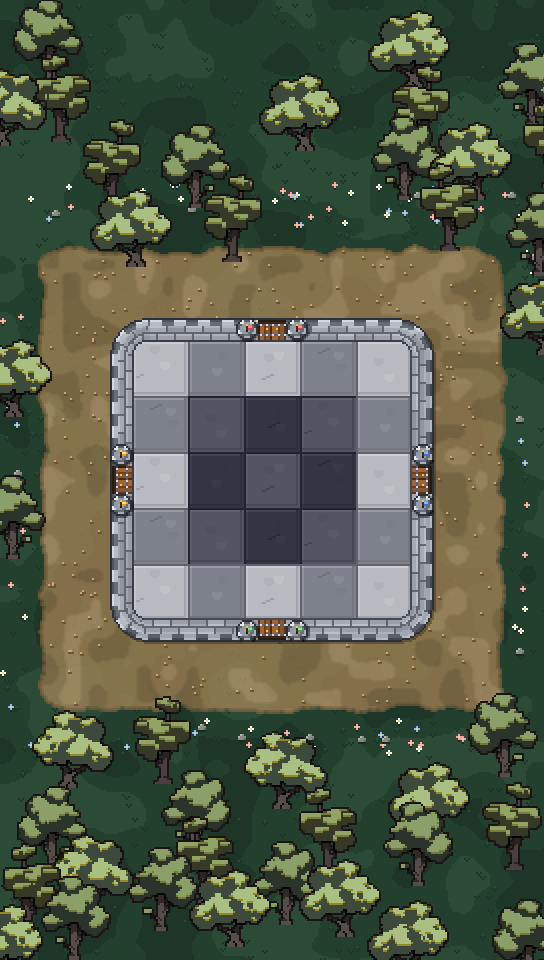
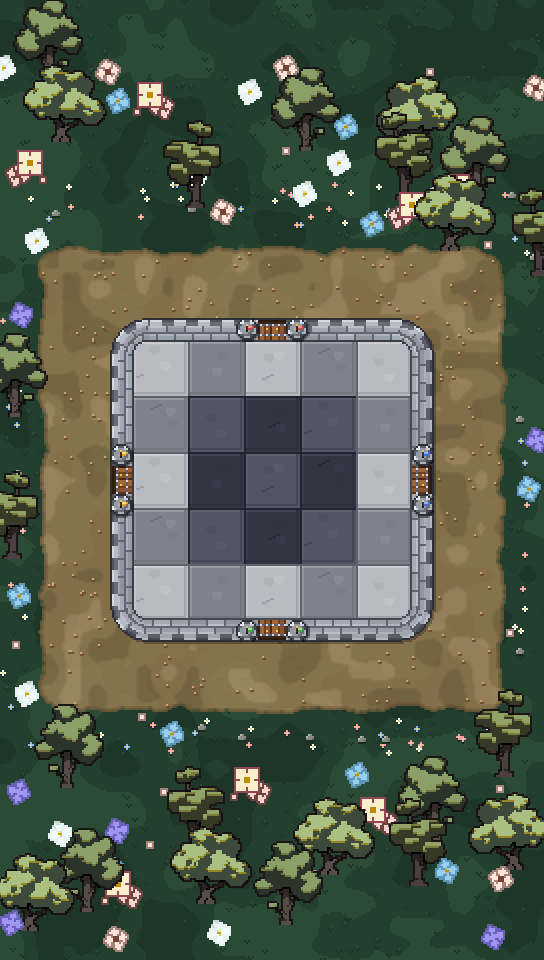
art: 초원 나무 22그루로 줄이고 사용자 그림 꽃 6종 50송이 추가
Claude-Session: https://claude.ai/code/session_01SZsqwRfS18NGHG22PfppyP

diff --git a/src/data/decor.js b/src/data/decor.js
@@ -3,46 +3,78 @@
 // 세로 화면만 (가로 배치는 꺼 둠). 필드·몬스터 길만 피해 화면 전체(UI 뒤 포함)에 흩뿌린다.
 export const DECOR = {
   grass: [
-    // 화면 전체(UI 뒤 땅 포함)에 흩뿌린 나무 — docs/drafts/tree-sway/scatter.py 가 쓴다 (손으로 고치면 다음 실행에 덮인다)
-    { key: 'deco_tree_1', x: 51, y: 81, phase: 0.5, flip: true },
-    { key: 'deco_tree_2', x: 416, y: 86, phase: 0.18, flip: true },
-    { key: 'deco_tree_1', x: 531, y: 125, phase: 0.11 },
-    { key: 'deco_tree_3', x: 59, y: 140, phase: 0.8 },
-    { key: 'deco_tree_2', x: -1, y: 144, phase: 0.59 },
-    { key: 'deco_tree_2', x: 307, y: 149, phase: 0.89, flip: true },
-    { key: 'deco_tree_3', x: 424, y: 151, phase: 0.3, flip: true },
-    { key: 'deco_tree_3', x: 549, y: 186, phase: 0.41 },
-    { key: 'deco_tree_1', x: 403, y: 198, phase: 0.21 },
-    { key: 'deco_tree_2', x: 478, y: 198, phase: 0.48, flip: true },
-    { key: 'deco_tree_3', x: 113, y: 205, phase: 0.06, flip: true },
-    { key: 'deco_tree_1', x: 197, y: 206, phase: 0.1, flip: true },
-    { key: 'deco_tree_3', x: 448, y: 249, phase: 0.95 },
-    { key: 'deco_tree_3', x: 234, y: 260, phase: 0.12, flip: true },
-    { key: 'deco_tree_2', x: 138, y: 265, phase: 0.49, flip: true },
-    { key: 'deco_tree_1', x: 538, y: 274, phase: 0.63 },
-    { key: 'deco_tree_2', x: 548, y: 353, phase: 0.39, flip: true },
-    { key: 'deco_tree_2', x: 16, y: 415, phase: 0.99, flip: true },
-    { key: 'deco_tree_1', x: 14, y: 557, phase: 0.61, flip: true },
-    { key: 'deco_tree_1', x: 506, y: 775, phase: 0.4, flip: true },
-    { key: 'deco_tree_3', x: 165, y: 782, phase: 0.42, flip: true },
-    { key: 'deco_tree_2', x: 66, y: 786, phase: 0.7 },
-    { key: 'deco_tree_2', x: 280, y: 807, phase: 0.1 },
-    { key: 'deco_tree_2', x: 436, y: 838, phase: 0.84, flip: true },
-    { key: 'deco_tree_1', x: 193, y: 852, phase: 0.59 },
-    { key: 'deco_tree_1', x: 53, y: 868, phase: 0.01, flip: true },
-    { key: 'deco_tree_3', x: 516, y: 868, phase: 0.52, flip: true },
-    { key: 'deco_tree_3', x: 327, y: 873, phase: 0.99 },
-    { key: 'deco_tree_1', x: 417, y: 884, phase: 0.06 },
-    { key: 'deco_tree_3', x: 204, y: 902, phase: 0.99 },
-    { key: 'deco_tree_2', x: 86, y: 910, phase: 0.86 },
-    { key: 'deco_tree_1', x: 285, y: 923, phase: 0.85 },
-    { key: 'deco_tree_3', x: 27, y: 929, phase: 0.7 },
-    { key: 'deco_tree_1', x: 160, y: 929, phase: 0.34 },
-    { key: 'deco_tree_2', x: 347, y: 935, phase: 0.45, flip: true },
-    { key: 'deco_tree_2', x: 237, y: 945, phase: 0.43, flip: true },
-    { key: 'deco_tree_1', x: 73, y: 958, phase: 0.95 },
-    { key: 'deco_tree_2', x: 415, y: 976, phase: 0.92, flip: true },
-    { key: 'deco_tree_2', x: 9, y: 980, phase: 0.2, flip: true },
-    { key: 'deco_tree_1', x: 530, y: 981, phase: 0.62, flip: true }
+    // 화면 전체(UI 뒤 땅 포함)에 흩뿌린 나무·꽃 — docs/drafts/tree-sway/scatter.py 가 쓴다 (손으로 고치면 다음 실행에 덮인다)
+    { key: 'deco_flower_6', x: 430, y: 76, phase: 0, flip: true },
+    { key: 'deco_flower_4', x: 4, y: 81, phase: 0, flip: true },
+    { key: 'deco_tree_1', x: 51, y: 81, phase: 0.06, flip: true },
+    { key: 'deco_flower_3', x: 285, y: 81, phase: 0 },
+    { key: 'deco_flower_3', x: 109, y: 85, phase: 0, flip: true },
+    { key: 'deco_flower_3', x: 537, y: 101, phase: 0, flip: true },
+    { key: 'deco_flower_5', x: 67, y: 104, phase: 0 },
+    { key: 'deco_flower_4', x: 250, y: 105, phase: 0, flip: true },
+    { key: 'deco_flower_1', x: 118, y: 114, phase: 0 },
+    { key: 'deco_flower_2', x: 153, y: 120, phase: 0 },
+    { key: 'deco_tree_2', x: 59, y: 140, phase: 0.96 },
+    { key: 'deco_flower_1', x: 346, y: 140, phase: 0 },
+    { key: 'deco_tree_1', x: 307, y: 149, phase: 1.0, flip: true },
+    { key: 'deco_tree_2', x: 424, y: 151, phase: 0.24, flip: true },
+    { key: 'deco_flower_6', x: 286, y: 155, phase: 0 },
+    { key: 'deco_flower_4', x: 339, y: 176, phase: 0, flip: true },
+    { key: 'deco_flower_2', x: 27, y: 188, phase: 0, flip: true },
+    { key: 'deco_flower_4', x: 195, y: 190, phase: 0 },
+    { key: 'deco_tree_3', x: 403, y: 198, phase: 0.99 },
+    { key: 'deco_tree_1', x: 478, y: 198, phase: 0.12, flip: true },
+    { key: 'deco_tree_3', x: 197, y: 206, phase: 0.62, flip: true },
+    { key: 'deco_flower_4', x: 305, y: 207, phase: 0, flip: true },
+    { key: 'deco_flower_2', x: 460, y: 212, phase: 0 },
+    { key: 'deco_flower_3', x: 224, y: 225, phase: 0, flip: true },
+    { key: 'deco_flower_2', x: 409, y: 230, phase: 0, flip: true },
+    { key: 'deco_flower_1', x: 372, y: 237, phase: 0 },
+    { key: 'deco_tree_2', x: 448, y: 249, phase: 0.79 },
+    { key: 'deco_flower_6', x: 488, y: 249, phase: 0 },
+    { key: 'deco_flower_4', x: 37, y: 254, phase: 0, flip: true },
+    { key: 'deco_tree_3', x: 538, y: 274, phase: 0.1 },
+    { key: 'deco_flower_5', x: 21, y: 328, phase: 0, flip: true },
+    { key: 'deco_tree_1', x: 16, y: 415, phase: 0.73, flip: true },
+    { key: 'deco_flower_5', x: 537, y: 453, phase: 0, flip: true },
+    { key: 'deco_flower_1', x: 529, y: 502, phase: 0, flip: true },
+    { key: 'deco_tree_3', x: 14, y: 557, phase: 0.58, flip: true },
+    { key: 'deco_flower_1', x: 19, y: 609, phase: 0 },
+    { key: 'deco_flower_6', x: 510, y: 637, phase: 0 },
+    { key: 'deco_flower_6', x: 16, y: 649, phase: 0 },
+    { key: 'deco_flower_4', x: 27, y: 707, phase: 0, flip: true },
+    { key: 'deco_flower_6', x: 142, y: 721, phase: 0, flip: true },
+    { key: 'deco_flower_1', x: 172, y: 747, phase: 0 },
+    { key: 'deco_flower_1', x: 61, y: 753, phase: 0, flip: true },
+    { key: 'deco_tree_3', x: 506, y: 775, phase: 0.17, flip: true },
+    { key: 'deco_tree_1', x: 66, y: 786, phase: 0.78 },
+    { key: 'deco_flower_1', x: 357, y: 788, phase: 0 },
+    { key: 'deco_flower_6', x: 500, y: 793, phase: 0 },
+    { key: 'deco_flower_6', x: 164, y: 796, phase: 0 },
+    { key: 'deco_flower_5', x: 19, y: 805, phase: 0 },
+    { key: 'deco_flower_2', x: 250, y: 805, phase: 0 },
+    { key: 'deco_flower_2', x: 376, y: 835, phase: 0 },
+    { key: 'deco_tree_1', x: 436, y: 838, phase: 0.5, flip: true },
+    { key: 'deco_flower_5', x: 117, y: 844, phase: 0, flip: true },
+    { key: 'deco_flower_4', x: 60, y: 847, phase: 0 },
+    { key: 'deco_flower_5', x: 318, y: 847, phase: 0 },
+    { key: 'deco_flower_6', x: 150, y: 849, phase: 0 },
+    { key: 'deco_tree_3', x: 193, y: 852, phase: 0.13 },
+    { key: 'deco_tree_2', x: 516, y: 868, phase: 0.68, flip: true },
+    { key: 'deco_tree_2', x: 327, y: 873, phase: 0.56 },
+    { key: 'deco_flower_6', x: 313, y: 878, phase: 0, flip: true },
+    { key: 'deco_flower_1', x: 112, y: 881, phase: 0, flip: true },
+    { key: 'deco_tree_3', x: 417, y: 884, phase: 0.96 },
+    { key: 'deco_flower_1', x: 447, y: 884, phase: 0, flip: true },
+    { key: 'deco_flower_3', x: 500, y: 892, phase: 0 },
+    { key: 'deco_tree_2', x: 204, y: 902, phase: 0.82 },
+    { key: 'deco_flower_2', x: 121, y: 909, phase: 0 },
+    { key: 'deco_tree_1', x: 86, y: 910, phase: 0.77 },
+    { key: 'deco_tree_1', x: 285, y: 923, phase: 0.79 },
+    { key: 'deco_tree_2', x: 27, y: 929, phase: 0.41 },
+    { key: 'deco_flower_5', x: 12, y: 936, phase: 0 },
+    { key: 'deco_flower_4', x: 219, y: 946, phase: 0 },
+    { key: 'deco_flower_5', x: 493, y: 950, phase: 0, flip: true },
+    { key: 'deco_flower_3', x: 117, y: 952, phase: 0, flip: true }
   ]
 };

diff --git a/tests/e2e/game.spec.js b/tests/e2e/game.spec.js
@@ -1434,17 +1434,21 @@ test('성문 (2026-11-21): 성벽 동서남북 가운데에 나무 문 + 탑 깃
   expect(errors).toEqual([]);
 });
 
-test('배경 나무 (2026-11-22): 초원 화면 전체에 흩뿌린 나무 3종 바람에 흔들리는 나무 · 28프레임 반복 · 박자가 서로 다름 · 지역이 바뀌면 사라짐', async ({ page }) => {
+test('배경 나무·꽃 (2026-11-22): 초원 화면 전체에 나무 3종(바람에 흔들림 28프레임·박자 다름) 22그루 + 꽃 6종 · 지역이 바뀌면 사라짐', async ({ page }) => {
   const errors = await startGame(page);
   const r = await game(page, () => {
     const g = window.game.scene.getScene('Game');
     const anim = g.anims.get('deco_tree_1:sway');
-    return { n: g.decor.length, frames: anim.frames.length, loop: anim.repeat, playing: g.decor.every((s) => s.anims.isPlaying),
-      phases: new Set(g.decor.map((s) => s.anims.currentFrame.index)).size, w: g.decor[0].displayWidth,
-      belowMonsters: g.decor.every((s) => s.depth < 10), top: g.decor.some((s) => s.y < 480), bottom: g.decor.some((s) => s.y > 480),
-      colors: new Set(g.decor.map((s) => s.texture.key)).size, flipped: g.decor.some((s) => s.flipX) };
+    const trees = g.decor.filter((s) => s.texture.key.startsWith('deco_tree_'));
+    const flowers = g.decor.filter((s) => s.texture.key.startsWith('deco_flower_'));
+    return { trees: trees.length, flowers: flowers.length, frames: anim.frames.length, loop: anim.repeat, playing: trees.every((s) => s.anims.isPlaying),
+      phases: new Set(trees.map((s) => s.anims.currentFrame.index)).size, w: trees[0].displayWidth,
+      belowMonsters: g.decor.every((s) => s.depth < 10), top: trees.some((s) => s.y < 480), bottom: trees.some((s) => s.y > 480),
+      treeKinds: new Set(trees.map((s) => s.texture.key)).size, flowerKinds: new Set(flowers.map((s) => s.texture.key)).size,
+      flipped: trees.some((s) => s.flipX) };
   });
-  expect(r.n).toBeGreaterThanOrEqual(30); // 화면 전체에 흩뿌린 40그루 (2026-11-21)
+  expect(r.trees).toBeGreaterThanOrEqual(15); // 나무 22그루 (2026-11-22 줄임)
+  expect(r.flowers).toBeGreaterThanOrEqual(30); // 꽃 50송이
   expect(r.frames).toBe(28);
   expect(r.loop).toBe(-1);
   expect(r.playing).toBe(true);
@@ -1452,7 +1456,8 @@ test('배경 나무 (2026-11-22): 초원 화면 전체에 흩뿌린 나무 3종 
   expect(r.w).toBe(100); // 50px 그림 × 아트 1px = 화면 2px
   expect(r.belowMonsters).toBe(true);
   expect(r.top && r.bottom).toBe(true);
-  expect(r.colors).toBe(3); // 나무 3종 (deco_tree_1~3, 2026-11-22 사용자 그림)
+  expect(r.treeKinds).toBe(3); // 나무 3종 (deco_tree_1~3, 사용자 그림)
+  expect(r.flowerKinds).toBe(6); // 꽃 6종 (deco_flower_1~6, 사용자 그림)
   expect(r.flipped).toBe(true); // 일부는 좌우 뒤집기
   await page.screenshot({ path: SHOT('49-grass-trees') });
   // 사막(11웨이브)으로 바뀌면 초원 나무는 서서히 사라진다

diff --git a/docs/drafts/tree-sway/scatter.py b/docs/drafts/tree-sway/scatter.py
@@ -3,18 +3,21 @@
 - 나무 그림 범위(밑동 기준 가로 -34~+48 · 세로 -76~0, 뒤집으면 가로 반대)가 길 상자와 크게 겹치면 다시 뽑는다 (가장자리 조금은 허용)
 - 포아송 원반 방식: 나무 사이 최소 간격(가로 56 · 세로는 1.4배로 계산)을 두고 뽑아 뭉치거나 줄지어 서지 않게
 - 나무 3종(deco_tree_1~3, 2026-11-22 사용자 그림)을 가까운 나무끼리 덜 겹치게, 좌우 뒤집기·박자 무작위. 같은 씨앗이면 같은 결과
-실행: python3 docs/drafts/tree-sway/scatter.py [그루 수=40] [씨앗=grass-scatter] → src/data/decor.js 의 grass 배열을 다시 쓴다
+- 2026-11-22 사용자 요청: 나무는 22그루로 줄이고 꽃(deco_flower_1~6, docs/drafts/flowers/) 50송이를 같은 방식으로 흩뿌린다
+  (꽃은 길 상자와 거의 안 겹치게, 꽃끼리 최소 간격 28, 종류 섞기. 나무 밑에 들어가도 된다 — 아래쪽이 앞에 그려진다)
+실행: python3 docs/drafts/tree-sway/scatter.py [그루 수=22] [씨앗=grass-scatter] [꽃 수=50] → src/data/decor.js 의 grass 배열을 다시 쓴다
 """
-import os, random, re, sys
+import os, random, re, sys, json
 
 HERE = os.path.dirname(os.path.abspath(__file__))
 ROOT = os.path.abspath(os.path.join(HERE, '..', '..', '..'))
-N = int(sys.argv[1]) if len(sys.argv) > 1 else 40
+N = int(sys.argv[1]) if len(sys.argv) > 1 else 22
+NF = int(sys.argv[3]) if len(sys.argv) > 3 else 50
 rnd = random.Random(sys.argv[2] if len(sys.argv) > 2 else 'grass-scatter')
 GW, GH = 544, 960
 PATH = (42, 250, 502, 710)       # 필드 + 몬스터 길 바깥 상자
 ALLOW = (18, 24)                 # 길 상자와 이만큼(가로, 세로)까지는 겹쳐도 됨
-GAP = 56                         # 나무 사이 최소 간격
+GAP = 64                         # 나무 사이 최소 간격 (그루 수를 줄여 조금 넓게)
 
 
 def box(x, y, flip):
@@ -47,10 +50,32 @@ for d in trees:
     d['key'] = min(COLORS, key=lambda c: (c in used, count[c], rnd.random()))
     count[d['key']] += 1
     d['phase'] = round(rnd.random(), 2)
+# ── 꽃 ──
+FSIZE = json.load(open(os.path.join(HERE, '..', 'flowers', 'sizes.json')))   # 키 → (폭, 높이) 아트 px
+FKEYS = sorted(FSIZE)
+flowers, tries = [], 0
+while len(flowers) < NF and tries < 200000:
+    tries += 1
+    key = rnd.choice(FKEYS)
+    w, h = FSIZE[key][0] * 2, FSIZE[key][1] * 2      # 화면 px (도트 2px)
+    x, y = rnd.randint(4, GW - 4), rnd.randint(60, GH + 10)
+    b = (x - w / 2, y - h, x + w / 2, y)
+    ix = min(b[2], PATH[2]) - max(b[0], PATH[0])
+    iy = min(b[3], PATH[3]) - max(b[1], PATH[1])
+    if ix > 4 and iy > 4:
+        continue
+    if any(((x - f['x']) ** 2 + (y - f['y']) ** 2) ** 0.5 < 28 for f in flowers):
+        continue
+    near = sorted(((x - f['x']) ** 2 + (y - f['y']) ** 2, f['key']) for f in flowers)[:2]
+    if key in {k for _, k in near} and rnd.random() < 0.7:
+        continue
+    flowers.append({'key': key, 'x': x, 'y': y, 'flip': rnd.random() < 0.5, 'phase': 0})
+assert len(flowers) == NF, (len(flowers), '꽃 자리가 모자람')
+trees += flowers
 trees.sort(key=lambda d: (d['y'], d['x']))
 lines = ',\n'.join(f"    {{ key: '{d['key']}', x: {d['x']}, y: {d['y']}, phase: {d['phase']}{', flip: true' if d['flip'] else ''} }}" for d in trees)
 p = os.path.join(ROOT, 'src', 'data', 'decor.js')
 s = open(p).read()
-s = re.sub(r"  grass: \[\n.*?\n  \]", "  grass: [\n    // 화면 전체(UI 뒤 땅 포함)에 흩뿌린 나무 — docs/drafts/tree-sway/scatter.py 가 쓴다 (손으로 고치면 다음 실행에 덮인다)\n" + lines + "\n  ]", s, flags=re.S)
+s = re.sub(r"  grass: \[\n.*?\n  \]", "  grass: [\n    // 화면 전체(UI 뒤 땅 포함)에 흩뿌린 나무·꽃 — docs/drafts/tree-sway/scatter.py 가 쓴다 (손으로 고치면 다음 실행에 덮인다)\n" + lines + "\n  ]", s, flags=re.S)
 open(p, 'w').write(s)
-print(N, 'trees', count, 'tries', tries)
+print(N, 'trees', count, NF, 'flowers', {k: sum(f['key'] == k for f in flowers) for k in FKEYS})

diff --git a/docs/drafts/flowers/flowers.py b/docs/drafts/flowers/flowers.py
@@ -1,0 +1,66 @@
+"""초원 꽃 (2026-11-22 사용자 그림 flowers_a.png · flowers_b.png, 각 50x50 에 꽃 여러 송이)
+- 그림 안에서 서로 떨어진 덩어리(8방향 연결)마다 한 송이로 잘라 낸다 (여백 1px) → 꽃 6종 (첫 장은 네모 꽃과 분홍 꽃잎이 붙어 한 덩어리 꽃밭)
+- 정지 그림 (흔들림 없음), 밑동(pivot) = 아래 가운데. 도트 1px = 화면 2px
+실행: python3 docs/drafts/flowers/flowers.py → flower_<n>.png · sheet.png
+      + public/assets/custom/deco/flower_<n>.png · manifest `deco_flower_<n>`. 놓는 자리는 docs/drafts/tree-sway/scatter.py
+"""
+import os, json
+from PIL import Image
+
+HERE = os.path.dirname(os.path.abspath(__file__))
+ROOT = os.path.abspath(os.path.join(HERE, '..', '..', '..'))
+
+
+def pieces(path):
+    im = Image.open(path).convert('RGBA')
+    W, H = im.size
+    on = {(x, y) for x in range(W) for y in range(H) if im.getpixel((x, y))[3] > 0}
+    seen, out = set(), []
+    for p in sorted(on, key=lambda q: (q[1], q[0])):
+        if p in seen:
+            continue
+        st, comp = [p], []
+        seen.add(p)
+        while st:
+            x, y = st.pop()
+            comp.append((x, y))
+            for dx in (-1, 0, 1):
+                for dy in (-1, 0, 1):
+                    q = (x + dx, y + dy)
+                    if q in on and q not in seen:
+                        seen.add(q)
+                        st.append(q)
+        xs, ys = [c[0] for c in comp], [c[1] for c in comp]
+        x0, y0, x1, y1 = min(xs) - 1, min(ys) - 1, max(xs) + 2, max(ys) + 2
+        piece = Image.new('RGBA', (x1 - x0, y1 - y0), (0, 0, 0, 0))
+        for (x, y) in comp:
+            piece.putpixel((x - x0, y - y0), im.getpixel((x, y)))
+        out.append(piece)
+    return out
+
+
+if __name__ == '__main__':
+    flowers = pieces(os.path.join(HERE, 'flowers_a.png')) + pieces(os.path.join(HERE, 'flowers_b.png'))
+    dst = os.path.join(ROOT, 'public', 'assets', 'custom', 'deco')
+    os.makedirs(dst, exist_ok=True)
+    mf_path = os.path.join(ROOT, 'public', 'assets', 'custom', 'manifest.json')
+    mf = json.load(open(mf_path))
+    for k in [k for k in mf['sprites'] if k.startswith('deco_flower_')]:
+        mf['sprites'].pop(k)
+    sizes = {}
+    for i, f in enumerate(flowers, 1):
+        f.save(os.path.join(HERE, f'flower_{i}.png'))
+        f.save(os.path.join(dst, f'flower_{i}.png'))
+        mf['sprites'][f'deco_flower_{i}'] = {'file': f'deco/flower_{i}.png', 'frameWidth': f.width, 'frameHeight': f.height, 'scale': 1,
+                                             'pivotX': f.width // 2, 'pivotY': f.height - 1}
+        sizes[f'deco_flower_{i}'] = f.size
+    json.dump(mf, open(mf_path, 'w'), ensure_ascii=False, indent=1)
+    json.dump(sizes, open(os.path.join(HERE, 'sizes.json'), 'w'))
+    z = 6
+    sheet = Image.new('RGBA', (sum(f.width * z + 12 for f in flowers) + 12, max(f.height for f in flowers) * z + 24), (35, 63, 46, 255))
+    x = 12
+    for f in flowers:
+        sheet.alpha_composite(f.resize((f.width * z, f.height * z), Image.NEAREST), (x, 12))
+        x += f.width * z + 12
+    sheet.save(os.path.join(HERE, 'sheet.png'))
+    print('flowers', sizes)

diff --git a/CLAUDE.md b/CLAUDE.md
@@ -81,7 +81,7 @@
 - **도트 굵기 = 모두 2px (2026-11-21 사용자 결정, `DOT`)**: 필드·캐릭터·스킬 이펙트·유물 아이콘에 더해 UI 아이콘·로비·타이틀(2px 격자 그림 272x480·640x360·272x482·203x360)·예전 이펙트 시트(Scale2x 2배 해상도)·화살·동전(배율 2)·코드로 그린 몬스터·투사체·입자(`dotKey` — 정예 2배·보스 3배 해상도, 보스 배율 5→6). 로비·병영·술집 캐릭터 그림도 크기 인자 없이 2px(`charImage`, 작은 칸은 'head' 머리만). `PX`(4)는 배치 단위로만 남음
 - **필드 크기 (2026-11-19 사용자 결정)**: 칸 56px(캐릭터 사이를 넓게 — 이전 48·64, 캐릭터 그림 48px 은 그대로), 성벽 두께 20, 석판 28 아트 px, **몬스터 길 폭은 1.5배(64px)** 로 넓혀 몬스터가 더 넓게 퍼져 걷는다(`laneSpread` 24). **유닛은 몸통 중심이 칸 가운데**(직접 그린 그림은 manifest `pivotX`·`pivotY`)
 - **성문 (2026-11-21)**: 전투 필드 성벽 동서남북 가운데에 성문(둥근 탑 2 + 나무 두짝 문, 성벽 두께 안). 세부는 `rtd-art-pipeline`
-- **배경 나무 (2026-11-22)**: 초원에 사용자 그림 나무 3종(`deco_tree_1~3`, 50x50, 2px) 40그루를 필드·몬스터 길만 피해 **화면 전체(UI 뒤 땅 포함)에 무작위로 흩뿌림**(최소 간격, 줄지어 서지 않게, 일부 좌우 뒤집기, 가까운 나무끼리 종류 덜 겹치게, `docs/drafts/tree-sway/scatter.py`) — 바람에 살랑이는 28프레임 × 100ms 반복(`sway.py`, 밑동 고정·잎 안쪽 바스락), 나무마다 박자 다름, 몬스터 아래 층. 자리 `src/data/decor.js`, 그리기 `src/art/decor.js`. 지역이 바뀌면 서서히 사라짐
+- **배경 나무·꽃 (2026-11-22)**: 초원에 사용자 그림 나무 3종(`deco_tree_1~3`, 50x50, 2px) **22그루** + 꽃 6종(`deco_flower_1~6`, 사용자 그림 2장을 송이마다 잘라 냄, 정지 그림) **50송이**를 필드·몬스터 길만 피해 **화면 전체(UI 뒤 땅 포함)에 무작위로 흩뿌림**(최소 간격, 줄지어 서지 않게, 일부 좌우 뒤집기, 가까운 것끼리 종류 덜 겹치게, `docs/drafts/tree-sway/scatter.py`) — 나무는 바람에 살랑이는 28프레임 × 100ms 반복(`sway.py`, 밑동 고정·잎 안쪽 바스락), 나무마다 박자 다름, 모두 몬스터 아래 층. 자리 `src/data/decor.js`, 그리기 `src/art/decor.js`, 꽃 `docs/drafts/flowers/flowers.py`. 지역이 바뀌면 서서히 사라짐
 - 배경: 10웨이브마다 지역 교체(지역 배경 레이어만 바뀜) — 초원 → 사막 → 가을 숲 → 화산 → 설원 → 늪 → 수정 동굴 → 묘지 → 천공의 섬 → 공허의 끝. 플랫 픽셀(2~3톤 얼룩, 잡티 금지), 석판은 회색 체크무늬. 초원 흙길은 밝은 브라운(`#b38d5c` 계열)
 - 몬스터 외형: 일반 5웨이브마다(20종), 정예·보스는 웨이브마다 전용(각 10종)
 - 소리: 16비트 풍 WebAudio 합성(배경음 4곡 + 효과음), 외부 오디오 파일 없음

diff --git a/.claude/skills/rtd-art-pipeline/SKILL.md b/.claude/skills/rtd-art-pipeline/SKILL.md
@@ -34,7 +34,8 @@ description: 용병단 디펜스(RTD) 그림·이펙트 작업 절차 — 캐릭
 
 ## 배경 장식 (움직이는 나무, 2026-11-21 · 2026-11-22 새 나무 3종)
 - 초원 나무 3종: 사용자 그림 `docs/drafts/tree-sway/tree_1~3.png`(50x50) → `python3 docs/drafts/tree-sway/sway.py` 가 그림마다 28프레임 흔들림(밑동 고정·위로 갈수록 최대 ±2px, 녹색 잎 안쪽만 1px 바스락, 원본 색·반투명 그대로, 밑동 pivot 자동) 시트를 만들고 `public/assets/custom/deco/tree_sway_<n>.png` + manifest `deco_tree_<n>` 에 넣는다. 새 나무는 `TREES` 에 한 줄
-- 초원 배치는 `python3 docs/drafts/tree-sway/scatter.py [그루 수] [씨앗]` 이 `src/data/decor.js` 에 쓴다(필드·길만 피해 화면 전체에 포아송 흩뿌리기, 종류 섞기)
+- 초원 꽃 6종: 사용자 그림 `docs/drafts/flowers/flowers_a·b.png` → `python3 docs/drafts/flowers/flowers.py` 가 떨어진 덩어리(8방향 연결)마다 잘라 `deco/flower_<n>.png` + manifest `deco_flower_<n>`(정지, 밑동 아래 가운데)
+- 초원 배치는 `python3 docs/drafts/tree-sway/scatter.py [나무 수=22] [씨앗] [꽃 수=50]` 이 `src/data/decor.js` 에 쓴다(필드·길만 피해 화면 전체에 포아송 흩뿌리기, 종류 섞기)
 - 그리기 `src/art/decor.js`(`addBiomeDecor`·`swapBiomeDecor`, 몬스터 아래 층, `flip` 지원). 새 지역 장식도 같은 방식으로 키를 더한다
 
 ## 외부 그림 도구

diff --git a/docs/HISTORY.md b/docs/HISTORY.md
@@ -231,3 +231,4 @@
 - 2026-11-21 배경 나무 오른쪽 위 2그루 추가 (20그루, `final_d.py`)
 - 2026-11-21 배경 나무 다시 배치 — 길을 따라 늘어선 느낌 대신 화면 전체(UI 뒤 포함)에 무작위 40그루(2배), 최소 간격 포아송 흩뿌리기 (`scatter.py`)
 - 2026-11-22 배경 나무를 사용자 새 그림 3종(`deco_tree_1~3`)으로 교체 — 그림마다 28프레임 흔들림, 예전 나무·잎 색 변형 삭제, 40그루 다시 흩뿌림
+- 2026-11-22 초원 배경: 나무 40 → 22그루로 줄이고 사용자 그림 꽃 6종 50송이 추가 (`docs/drafts/flowers/flowers.py`, `scatter.py`)

diff --git a/docs/CUSTOM_ART.md b/docs/CUSTOM_ART.md
@@ -241,6 +241,7 @@
 | 키 | 크기 | 설명 |
 |---|---|---|
 | `deco_tree_1`, `deco_tree_2`, `deco_tree_3` | 50×50 × 28프레임 | 초원 나무 3종(사용자 그림) — 바람에 살랑임 (100ms, 밑동 pivot 은 그림마다). 그림 `docs/drafts/tree-sway/` |
+| `deco_flower_1` ~ `deco_flower_6` | 6×6 ~ 23×21 | 초원 꽃 6종(사용자 그림을 송이마다 잘라 냄) — 정지 그림, 밑동 = 아래 가운데. 그림 `docs/drafts/flowers/` |
 
 ### 기타
 
